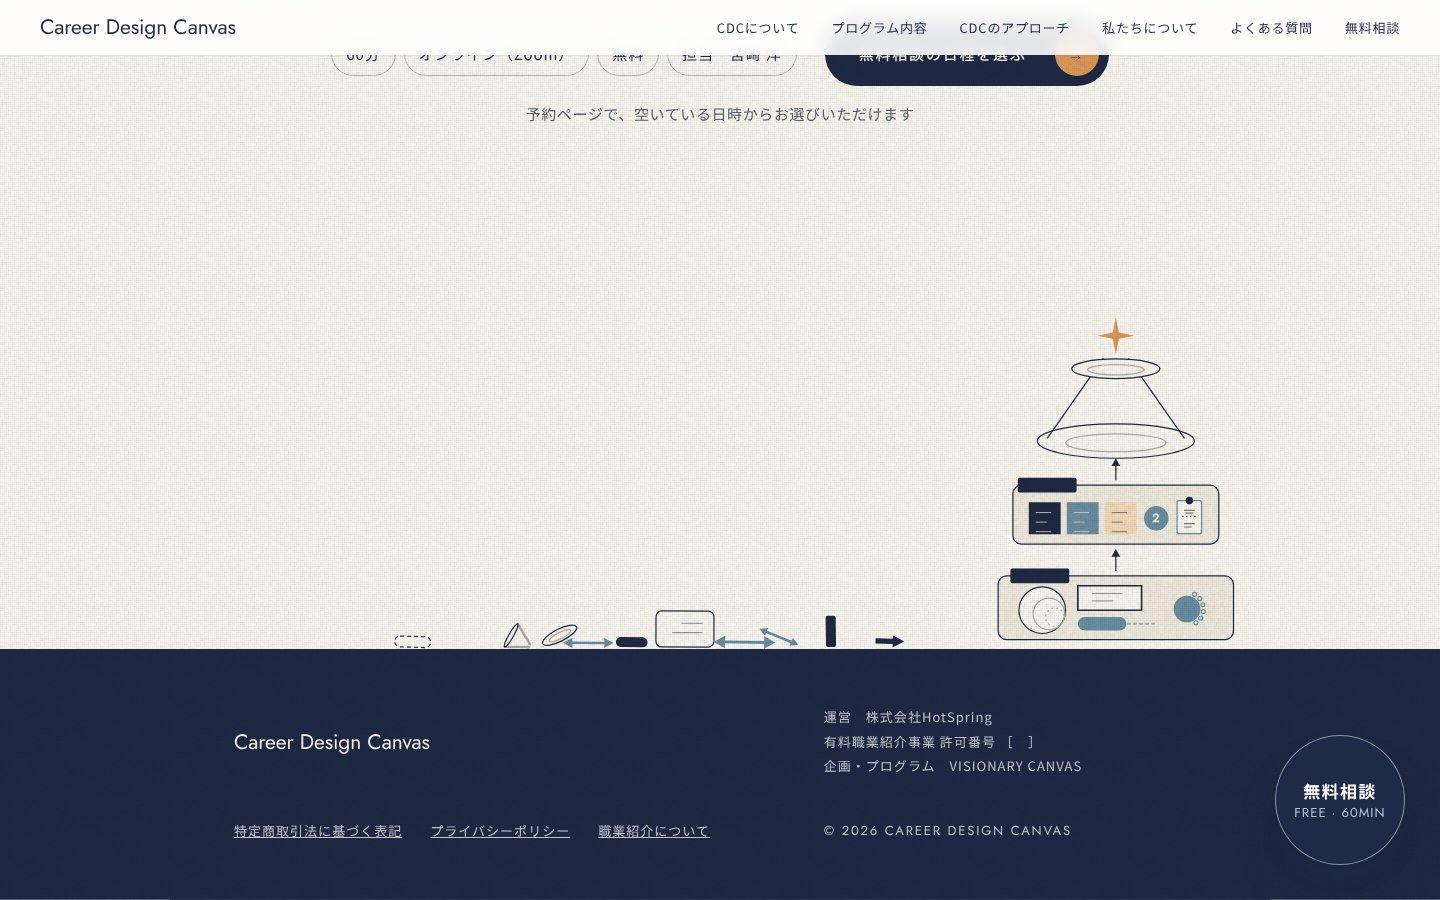
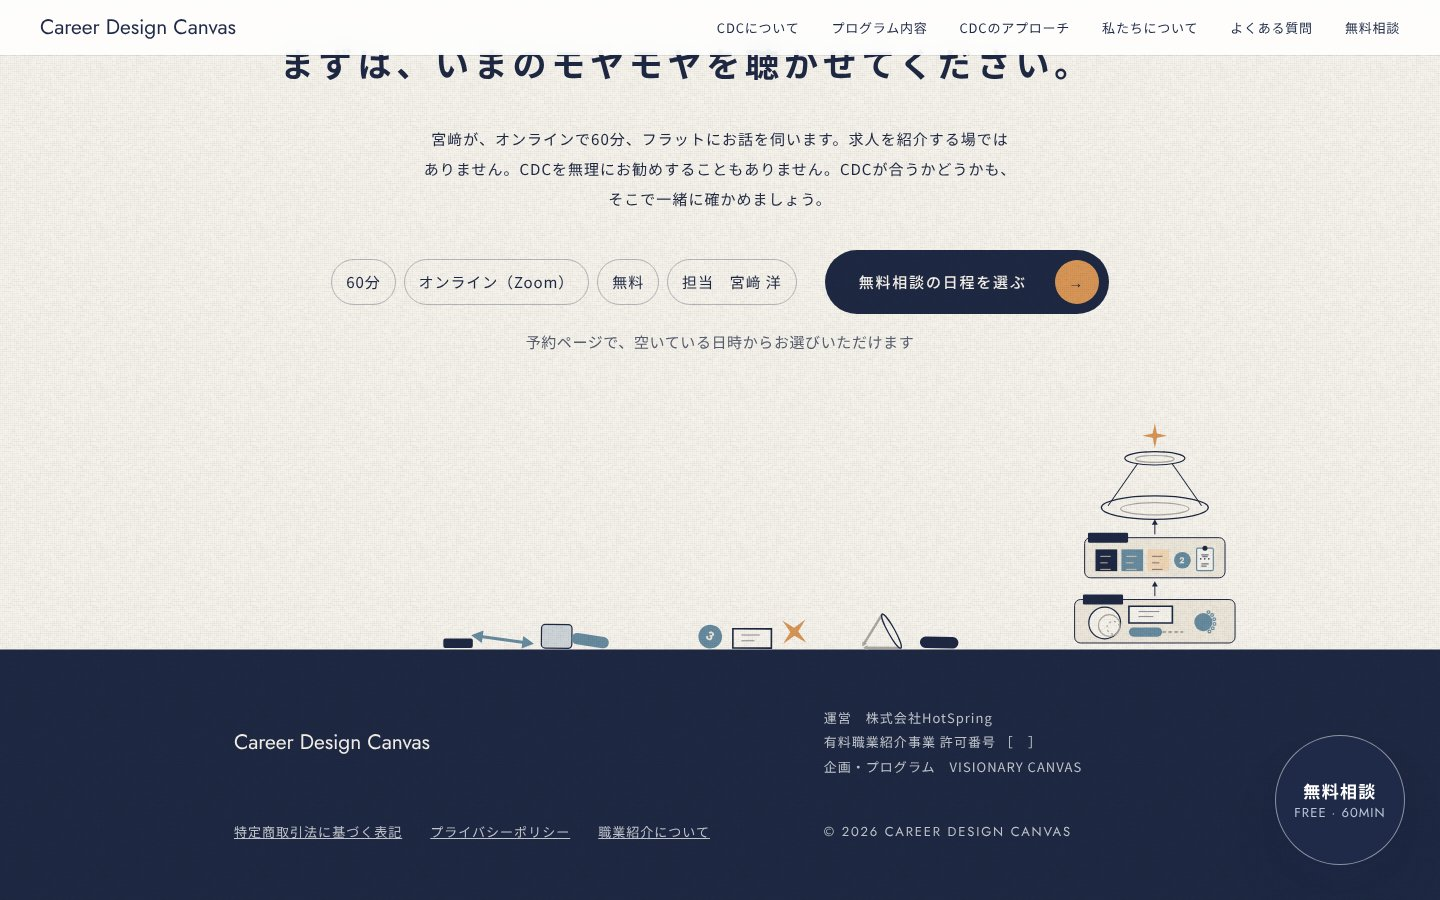
試し：一番下の図解の場所を詰める（無料相談の選ぶところとのあいだ）
Claude-Session: https://claude.ai/code/session_01GVQrUqGmQ2dnXurooJoMfp

diff --git a/1108k.html b/1108k.html
@@ -1538,13 +1538,13 @@ window.CDCFIELD=(function(){
 #top .kvobj{display:none !important}
 #top{cursor:auto !important}
 /* ページの一番下：無料相談とフッターのあいだに、図解が組み上がる場所 */
-.kvend{position:relative;height:clamp(380px,46vw,520px);margin:0}
+.kvend{position:relative;height:260px;margin:32px 0 0}
 .kvend .kvfr{inset:0 !important;box-shadow:none !important;pointer-events:none}
 .kvend .kvfl,.kvend .kvdry,.kvend .kvwet,.kvend .kvtex{display:none !important}
 .kvend .kvcl{inset:0 !important;background:transparent !important;overflow:visible}
 .kvend .kvobj{z-index:3}
 #consult .ctafoot{margin-top:0 !important}
-@media (max-width:760px){.kvend{height:340px}}
+@media (max-width:760px){.kvend{height:240px;margin-top:16px}}
 </style><script>(function(){ var f=document.querySelector('#consult .ctafoot'); if(!f) return; var d=document.createElement('div'); d.id='kvend'; d.className='kvend'; d.setAttribute('aria-hidden','true'); f.parentNode.insertBefore(d,f); })();
 
 /* 2026-11-08 試し：一番上の図解とがらくたを、ページの一番下（最後の無料相談）へ移す */
@@ -1680,7 +1680,7 @@ window.CDCFIELD=(function(){
         ['ell',5,5.6,6.4,1.4], ['arrow',3.35,3.85,4.0,-55], ['arrow',6.65,3.85,4.0,-125], ['ell',5,2.65,3.6,.8], ['star',5,1.3,1.5,1.5] ];
   var parts=[], nextSlot=0, built=false, gap=0;
   function gnd(){ return H-2; }
-  function box(){ var m=mob(), G=gnd(), sc=1, bh=(m?Math.min(H*.68,250):Math.min(H*.66,440))*sc, bw=bh*10/14, bx=m?(W-bw)/2:W*.86-bw, by=G-bh; return {x:bx,y:by,u:bh/14}; }
+  function box(){ var m=mob(), G=gnd(), sc=1, bh=(m?H*.86:H*.9)*sc, bw=bh*10/14, bx=m?(W-bw)/2:W*.86-bw, by=G-bh; return {x:bx,y:by,u:bh/14}; }
   function launch(x,y){ var P=PLAN[BR]; if(!P||nextSlot>=(window.STAGE_TOP||P.length)) return; var q=P[nextSlot++]; if(q[0]==='line') q=q.concat([]), q.cx=(q[1]+q[3])/2, q.cy=(q[2]+q[4])/2; parts.push({q:q,sx:x,sy:y,sa:(Math.random()-.5)*3,t:performance.now()});
     if(nextSlot>=(window.STAGE_TOP||P.length)) built=true; idle=performance.now(); }
   function ease(k){ var c=1.5; return 1+(c+1)*Math.pow(k-1,3)+c*Math.pow(k-1,2); }
